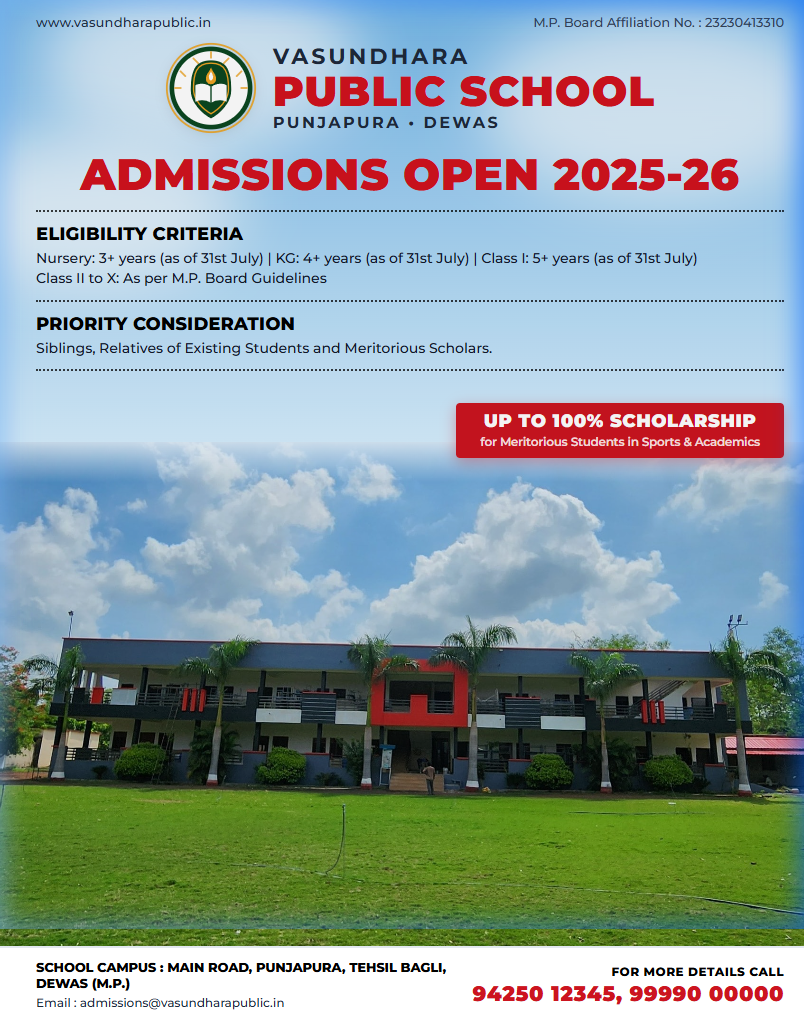
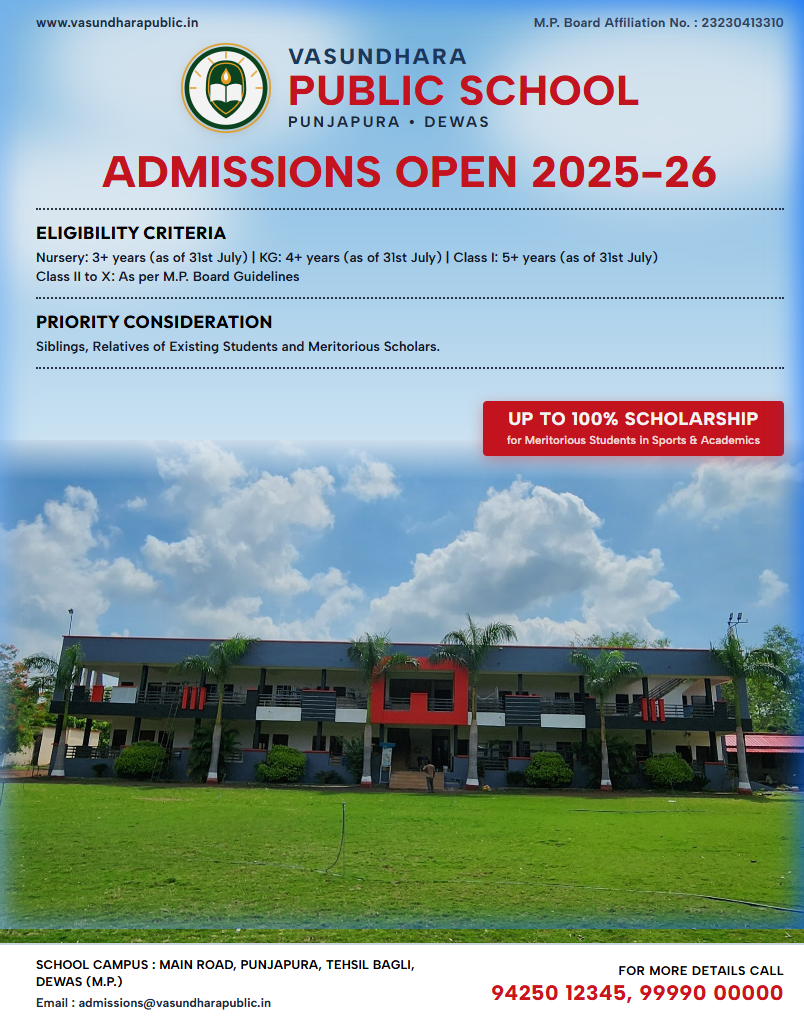
feat: apply exact HS Gold Bold, Alfons Sans Bold, and AC Texto ExtraBold typography and simplified address to admission flyer

diff --git a/public/banner_template.html b/public/banner_template.html
@@ -5,8 +5,55 @@
   <title>Vasundhara Public School Admission Banner</title>
   <link rel="preconnect" href="https://fonts.googleapis.com">
   <link rel="preconnect" href="https://fonts.gstatic.com" crossorigin>
-  <link href="https://fonts.googleapis.com/css2?family=Montserrat:ital,wght@0,400;0,500;0,600;0,700;0,800;0,900;1,700&display=swap" rel="stylesheet">
+  <link href="https://fonts.googleapis.com/css2?family=Albert+Sans:ital,wght@0,400;0,500;0,600;0,700;0,800;0,900;1,700&family=Outfit:wght@400;500;600;700;800;900&family=Plus+Jakarta+Sans:wght@500;600;700;800&family=Montserrat:ital,wght@0,400;0,500;0,600;0,700;0,800;0,900;1,700&display=swap" rel="stylesheet">
   <style>
+    /* User-specified typography with exact names as primary and high-fidelity fallbacks */
+    @font-face {
+      font-family: 'HS Gold Bold';
+      src: local('HS Gold Bold'), local('HSGold-Bold'), local('HS Gold');
+      font-weight: 700;
+      font-style: normal;
+    }
+    @font-face {
+      font-family: 'HS Gold';
+      src: local('HS Gold Bold'), local('HSGold-Bold'), local('HS Gold');
+      font-weight: 700;
+      font-style: normal;
+    }
+    @font-face {
+      font-family: 'Alfons Sans Bold';
+      src: local('Alfons Sans Bold'), local('AlfonsSans-Bold'), local('Alfons Sans');
+      font-weight: 700;
+      font-style: normal;
+    }
+    @font-face {
+      font-family: 'Alfons Sans';
+      src: local('Alfons Sans Bold'), local('AlfonsSans-Bold'), local('Alfons Sans');
+      font-weight: 700;
+      font-style: normal;
+    }
+    @font-face {
+      font-family: 'AC Texto ExtraBold';
+      src: local('AC Texto ExtraBold'), local('ACTexto-ExtraBold'), local('AC Texto');
+      font-weight: 800;
+      font-style: normal;
+    }
+    @font-face {
+      font-family: 'AC Texto';
+      src: local('AC Texto ExtraBold'), local('ACTexto-ExtraBold'), local('AC Texto');
+      font-weight: 800;
+      font-style: normal;
+    }
+
+    :root {
+      --font-ac-texto: 'AC Texto ExtraBold', 'AC Texto', 'Albert Sans', 'Montserrat', sans-serif;
+      --font-hs-gold: 'HS Gold Bold', 'HS Gold', 'Outfit', 'Montserrat', sans-serif;
+      --font-alfons-sans: 'Alfons Sans Bold', 'Alfons Sans', 'Albert Sans', 'Plus Jakarta Sans', sans-serif;
+      --brand-red: #cc141f;
+      --brand-navy: #1e3a5f;
+      --text-black: #000000;
+    }
+
     * {
       box-sizing: border-box;
       margin: 0;
@@ -19,14 +66,14 @@
       margin: 0;
       padding: 0;
       overflow: hidden;
-      font-family: 'Montserrat', -apple-system, BlinkMacSystemFont, 'Segoe UI', Roboto, sans-serif;
+      font-family: var(--font-alfons-sans);
     }
 
     #banner-poster {
       width: 820px;
       height: 1024px;
       position: relative;
-      background: linear-gradient(180deg, #74b7e8 0%, #a4d2f3 22%, #d2ecfd 42%, #eef7fe 60%, #ffffff 82%);
+      background: linear-gradient(180deg, #78bae8 0%, #a4d2f3 22%, #d2ecfd 42%, #eef7fe 60%, #ffffff 82%);
       overflow: hidden;
       display: flex;
       flex-direction: column;
@@ -35,13 +82,13 @@
     /* Soft Realistic Clouds in the Sky */
     .cloud {
       position: absolute;
-      background: rgba(255, 255, 255, 0.65);
+      background: rgba(255, 255, 255, 0.7);
       border-radius: 50%;
-      filter: blur(30px);
+      filter: blur(28px);
       pointer-events: none;
     }
 
-    /* Top Strip (Tiny, clean, exactly like Mount Index) */
+    /* Top Strip (Matches Mount Index cleanly) */
     .top-strip {
       display: flex;
       justify-content: space-between;
@@ -51,19 +98,21 @@
       z-index: 10;
     }
     .top-strip .url {
-      font-size: 13px;
-      font-weight: 500;
+      font-family: var(--font-alfons-sans);
+      font-size: 13.5px;
+      font-weight: 700;
       color: #1e293b;
       letter-spacing: 0.2px;
     }
     .top-strip .board {
-      font-size: 12.5px;
-      font-weight: 500;
+      font-family: var(--font-alfons-sans);
+      font-size: 13px;
+      font-weight: 700;
       color: #334155;
       letter-spacing: 0.2px;
     }
 
-    /* Branding Lockup: Horizontal Logo on Left + School Name on Right (Exact Mount Index structure) */
+    /* Branding Lockup: Horizontal Logo on Left + School Name on Right */
     .brand-lockup-row {
       display: flex;
       align-items: center;
@@ -78,7 +127,7 @@
       width: 92px;
       height: 92px;
       flex-shrink: 0;
-      filter: drop-shadow(0 3px 6px rgba(0, 0, 0, 0.1));
+      filter: drop-shadow(0 3px 6px rgba(0, 0, 0, 0.12));
     }
 
     .brand-name-col {
@@ -88,24 +137,27 @@
       text-align: left;
     }
     .brand-name-top {
+      font-family: var(--font-ac-texto);
       font-size: 22px;
-      font-weight: 700;
-      color: #1e293b;
-      letter-spacing: 3px;
+      font-weight: 800;
+      color: var(--brand-navy);
+      letter-spacing: 2.5px;
       line-height: 1;
       text-transform: uppercase;
     }
     .brand-name-main {
+      font-family: var(--font-ac-texto);
       font-size: 42px;
-      font-weight: 900;
-      color: #d1121d;
+      font-weight: 800;
+      color: var(--brand-red);
       letter-spacing: 1px;
       line-height: 1;
       text-transform: uppercase;
       margin: 2px 0 3px;
     }
     .brand-name-sub {
-      font-size: 16px;
+      font-family: var(--font-alfons-sans);
+      font-size: 15px;
       font-weight: 700;
       color: #1e293b;
       letter-spacing: 2.5px;
@@ -113,15 +165,16 @@
       text-transform: uppercase;
     }
 
-    /* Admissions Open Headline (Clean, bold red, flat print style) */
+    /* Admissions Open Headline (In AC Texto ExtraBold) */
     .admissions-headline {
+      font-family: var(--font-ac-texto);
       text-align: center;
       font-size: 44px;
-      font-weight: 900;
-      color: #d1121d;
+      font-weight: 800;
+      color: var(--brand-red);
       letter-spacing: 0.5px;
       text-transform: uppercase;
-      margin: 14px 0 6px;
+      margin: 12px 0 6px;
       position: relative;
       z-index: 10;
       line-height: 1;
@@ -129,35 +182,38 @@
 
     /* Dotted Line Separator */
     .dotted-rule {
-      border-bottom: 2px dotted #000000;
+      border-bottom: 2px dotted #111827;
       margin: 8px 36px;
-      opacity: 0.75;
+      opacity: 0.85;
       position: relative;
       z-index: 10;
     }
 
-    /* Info Sections: Bold Heading + Regular Weight Body (High Readability) */
+    /* Info Sections */
     .info-section {
       padding: 3px 36px;
       position: relative;
       z-index: 10;
     }
+    /* Eligibility Criteria & Priority Consideration in HS Gold Bold */
     .info-section-title {
+      font-family: var(--font-hs-gold);
       font-size: 17.5px;
-      font-weight: 800;
-      color: #000000;
-      letter-spacing: 0.4px;
+      font-weight: 700;
+      color: var(--text-black);
+      letter-spacing: 0.5px;
       text-transform: uppercase;
       margin-bottom: 4px;
     }
     .info-section-body {
-      font-size: 14px;
-      font-weight: 500;
+      font-family: var(--font-alfons-sans);
+      font-size: 13.5px;
+      font-weight: 600;
       color: #111827;
-      line-height: 1.45;
+      line-height: 1.42;
     }
 
-    /* Middle Floating Badge: Clean Up to 100% Scholarship Ribbon on Right (Airy & Uncluttered) */
+    /* Middle Ribbon Badge: Up to 100% Scholarship on Right */
     .middle-badges-strip {
       display: flex;
       justify-content: flex-end;
@@ -166,7 +222,7 @@
       z-index: 15;
     }
     .scholarship-ribbon-card {
-      background: #cc141f;
+      background: var(--brand-red);
       color: #ffffff;
       border-radius: 4px;
       padding: 9px 24px;
@@ -174,20 +230,22 @@
       text-align: center;
     }
     .scholarship-ribbon-card .sch-heading {
+      font-family: var(--font-ac-texto);
       font-size: 18px;
-      font-weight: 900;
+      font-weight: 800;
       letter-spacing: 0.6px;
       text-transform: uppercase;
       line-height: 1.1;
     }
     .scholarship-ribbon-card .sch-details {
+      font-family: var(--font-alfons-sans);
       font-size: 11.5px;
       font-weight: 600;
       margin-top: 3px;
       color: #fee2e2;
     }
 
-    /* Campus Photo Area (Reduced sky, prominent building, clean grass) */
+    /* Campus Photo Area */
     .campus-photo-container {
       flex: 1;
       position: relative;
@@ -202,7 +260,7 @@
       object-position: center 58%;
       display: block;
     }
-    /* Natural sky blend */
+    /* Soft sky blend */
     .photo-sky-blend {
       position: absolute;
       top: 0;
@@ -213,10 +271,10 @@
       pointer-events: none;
     }
 
-    /* Bottom White Footer Strip (Simplified, clean, zero clutter) */
+    /* Bottom White Footer Strip (In Alfons Sans Bold & AC Texto ExtraBold) */
     .footer-white-strip {
       background: #ffffff;
-      border-top: 2px solid #e2e8f0;
+      border-top: 2px solid #cbd5e1;
       padding: 12px 36px 14px;
       display: flex;
       justify-content: space-between;
@@ -228,20 +286,25 @@
       display: flex;
       flex-direction: column;
       gap: 2px;
-      max-width: 440px;
+      max-width: 470px;
     }
+    /* Campus address in Alfons Sans Bold */
     .campus-address-line {
+      font-family: var(--font-alfons-sans);
       font-size: 12.5px;
-      font-weight: 800;
-      color: #000000;
+      font-weight: 700;
+      color: var(--text-black);
       letter-spacing: 0.2px;
-      line-height: 1.3;
+      line-height: 1.35;
+      text-transform: uppercase;
     }
+    /* Email in Alfons Sans Bold */
     .campus-email-line {
-      font-size: 12px;
-      font-weight: 500;
+      font-family: var(--font-alfons-sans);
+      font-size: 12.5px;
+      font-weight: 700;
       color: #1e293b;
-      margin-top: 1px;
+      margin-top: 2px;
     }
 
     .footer-contact-call {
@@ -251,17 +314,21 @@
       align-items: flex-end;
       white-space: nowrap;
     }
+    /* For More Details Call in Alfons Sans Bold */
     .call-label-text {
-      font-size: 12px;
-      font-weight: 800;
-      color: #000000;
+      font-family: var(--font-alfons-sans);
+      font-size: 12.5px;
+      font-weight: 700;
+      color: var(--text-black);
       letter-spacing: 0.5px;
       text-transform: uppercase;
     }
+    /* Phone numbers in AC Texto ExtraBold */
     .call-numbers-text {
+      font-family: var(--font-ac-texto);
       font-size: 21px;
-      font-weight: 900;
-      color: #cc141f;
+      font-weight: 800;
+      color: var(--brand-red);
       letter-spacing: 0.5px;
       margin-top: 2px;
       white-space: nowrap;
@@ -391,7 +458,8 @@
     <div class="footer-white-strip">
       <div class="footer-campus-info">
         <div class="campus-address-line">
-          SCHOOL CAMPUS : MAIN ROAD, PUNJAPURA, TEHSIL BAGLI, DEWAS (M.P.)
+          SCHOOL CAMPUS : MAIN ROAD, PUNJAPURA, TEHSIL BAGLI,<br>
+          DEWAS (M.P.)
         </div>
         <div class="campus-email-line">
           Email : admissions@vasundharapublic.in
